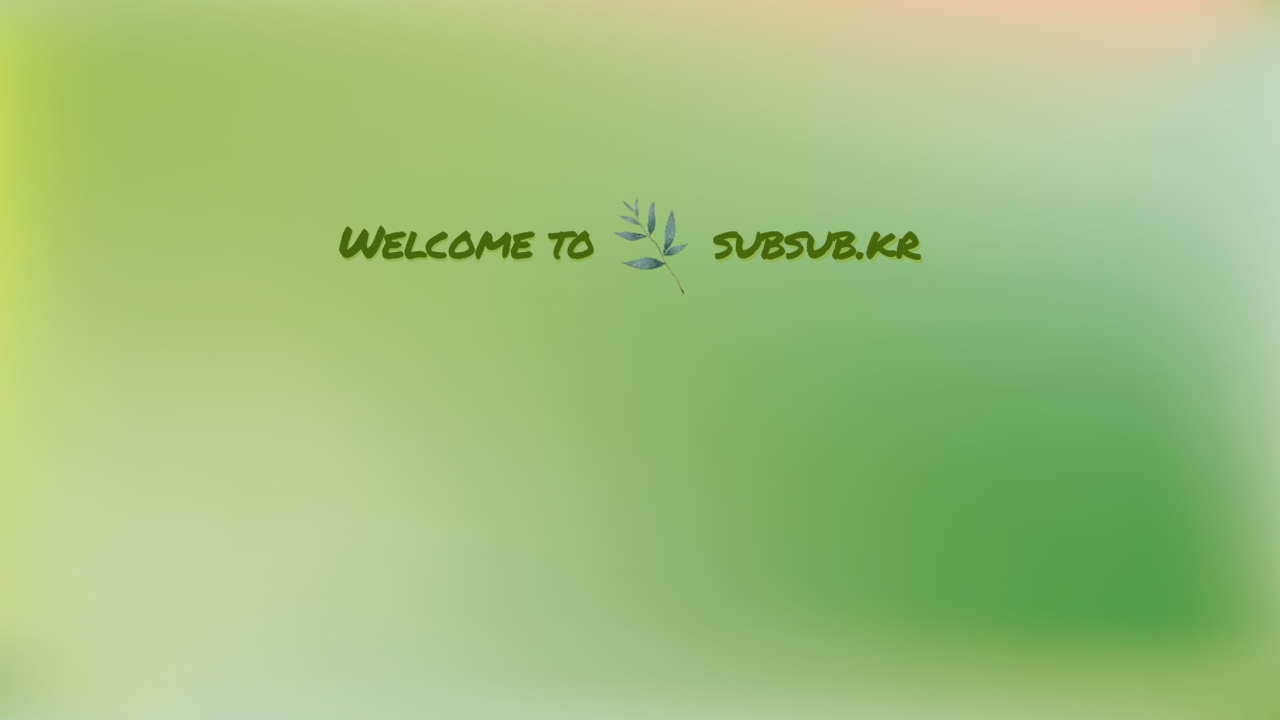
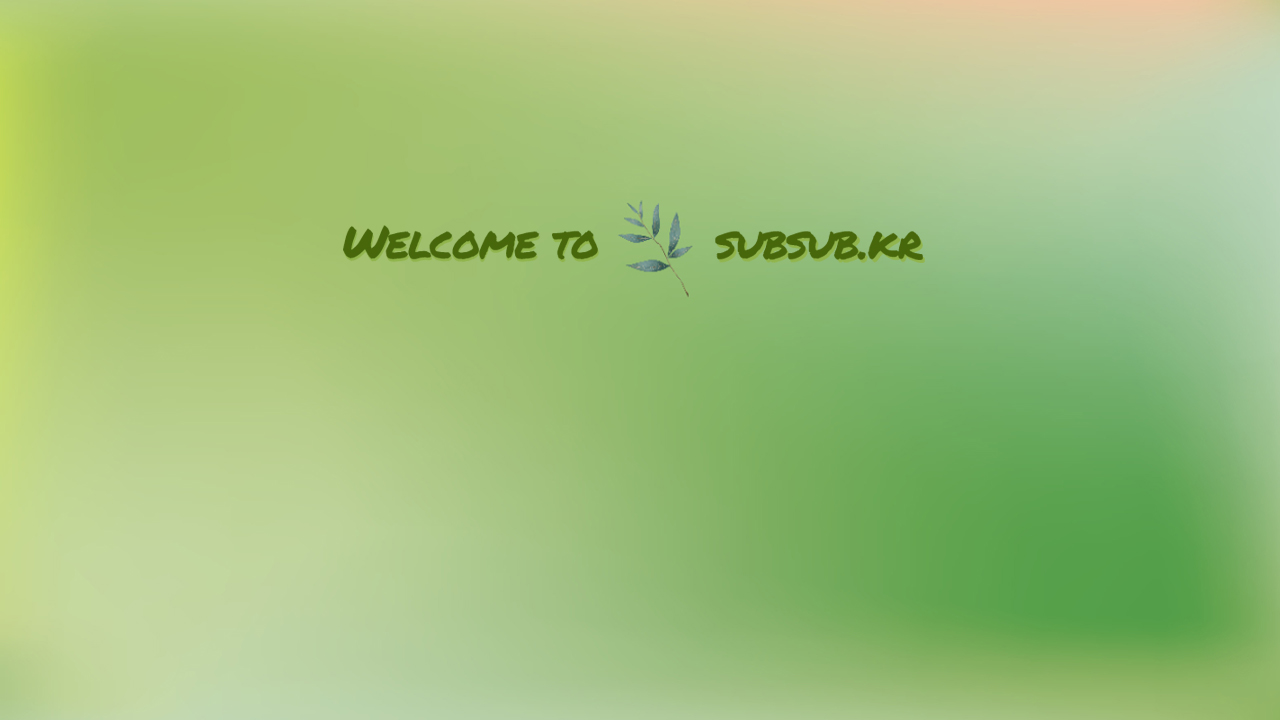
블로그 커버 변경

Changed region(s): [[0.25, 0.275, 0.7188, 0.3972]]

diff --git a/category/think.html b/category/think.html
@@ -3,7 +3,7 @@ layout: page
 title: Think
 description: 요즘의 생각들
 permalink: /think/
-background: '/img/posts/think.jpg'
+background: '/img/posts/think_v2.jpg'
 ---
 
 	{% for post in site.categories.think %}
